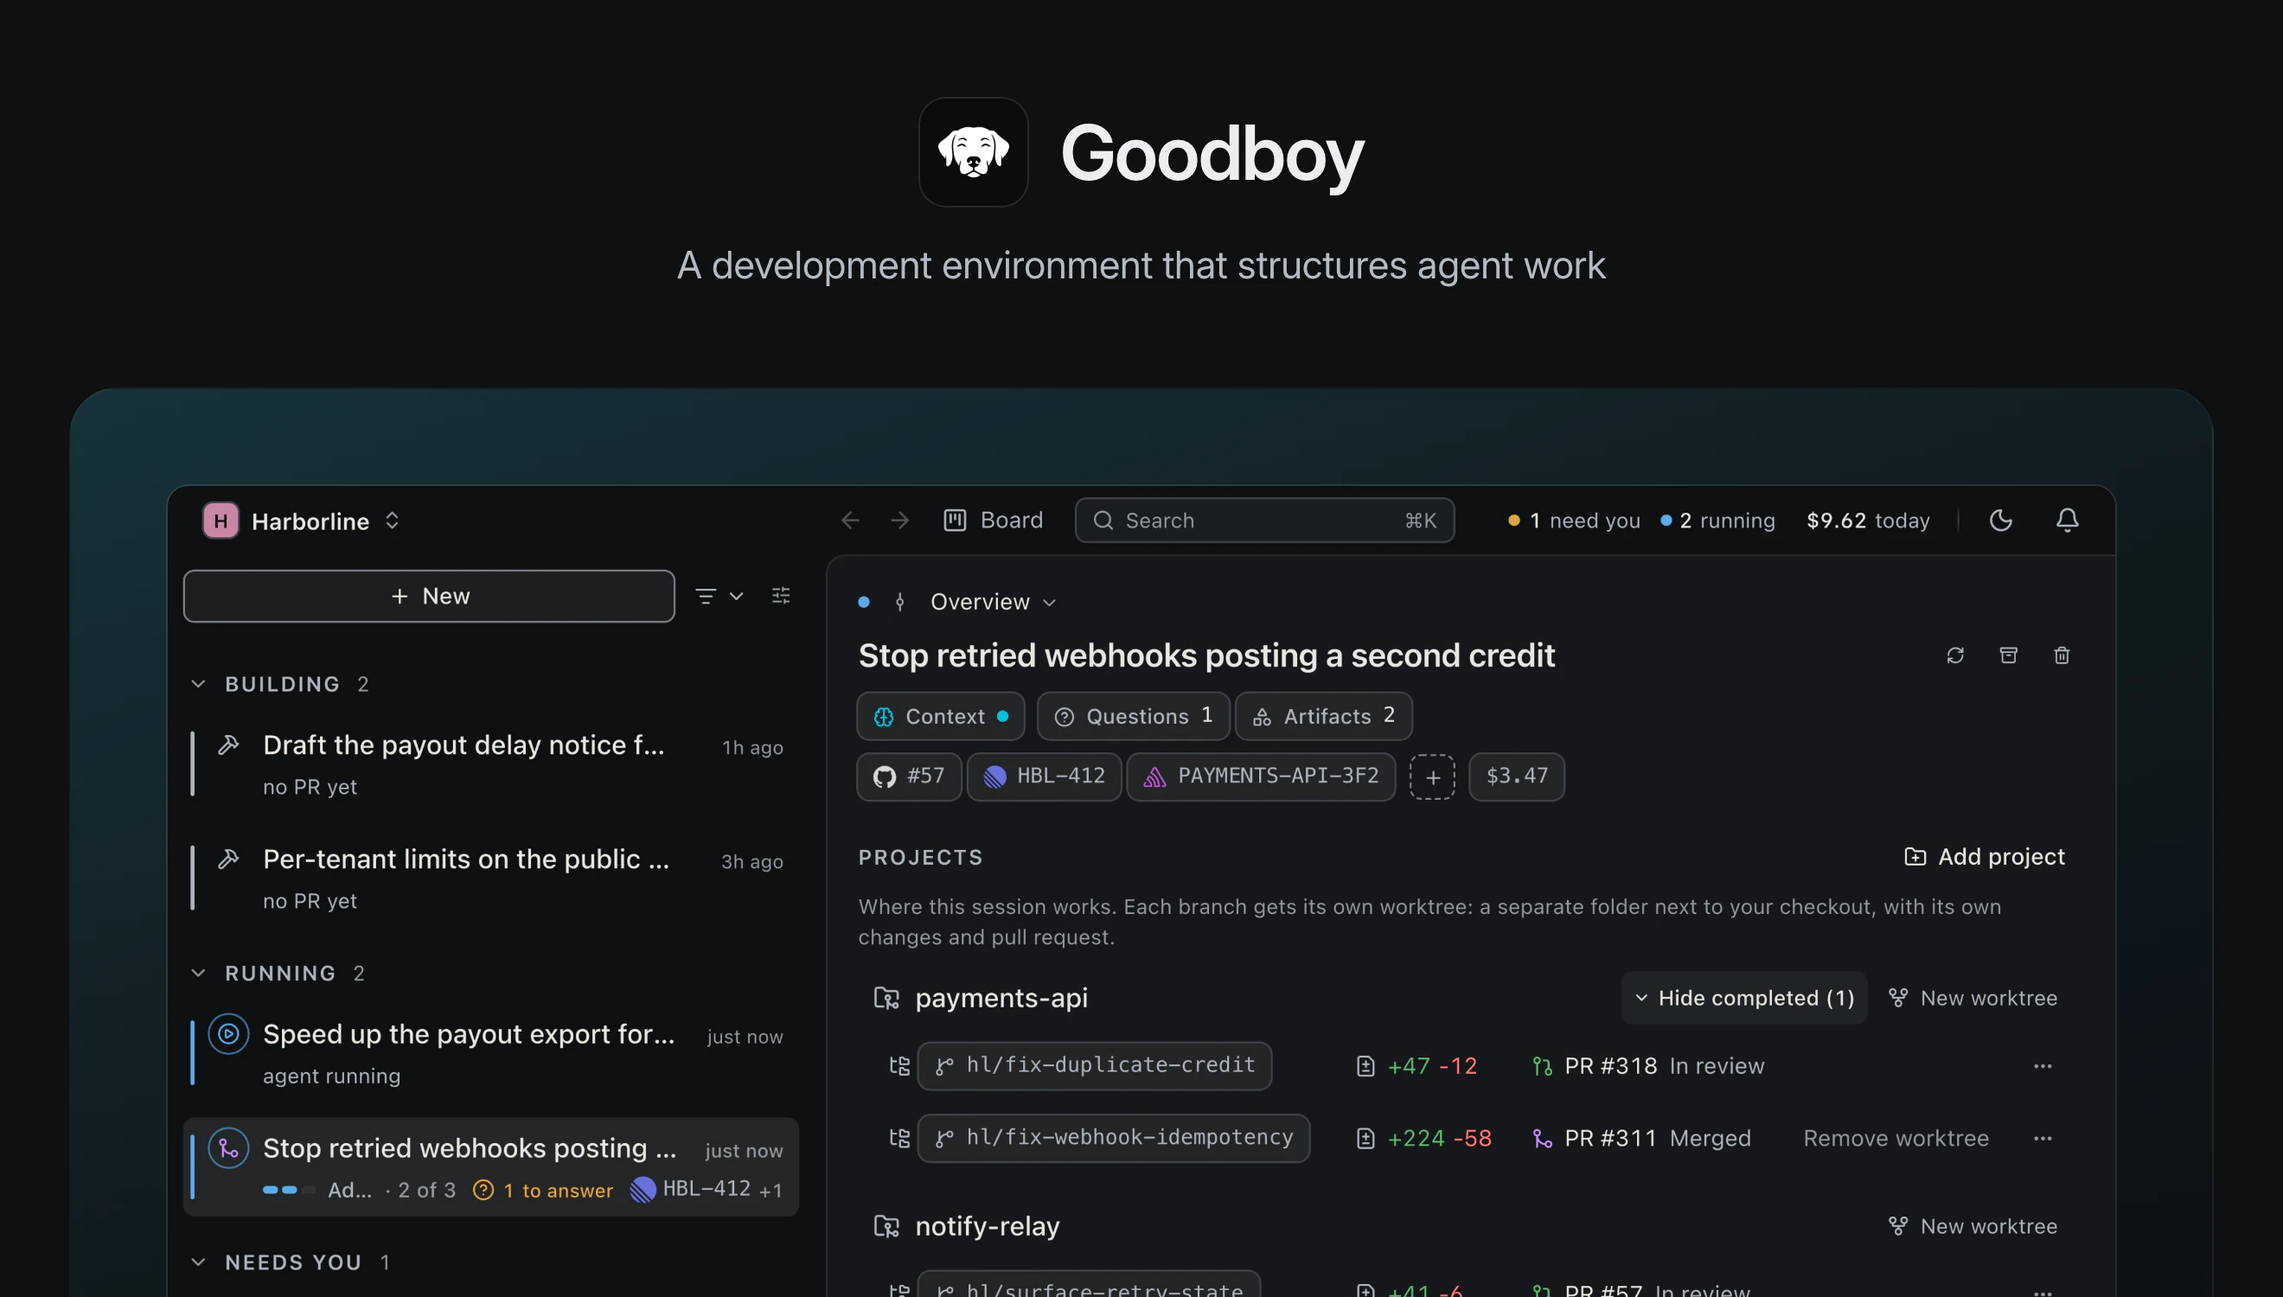
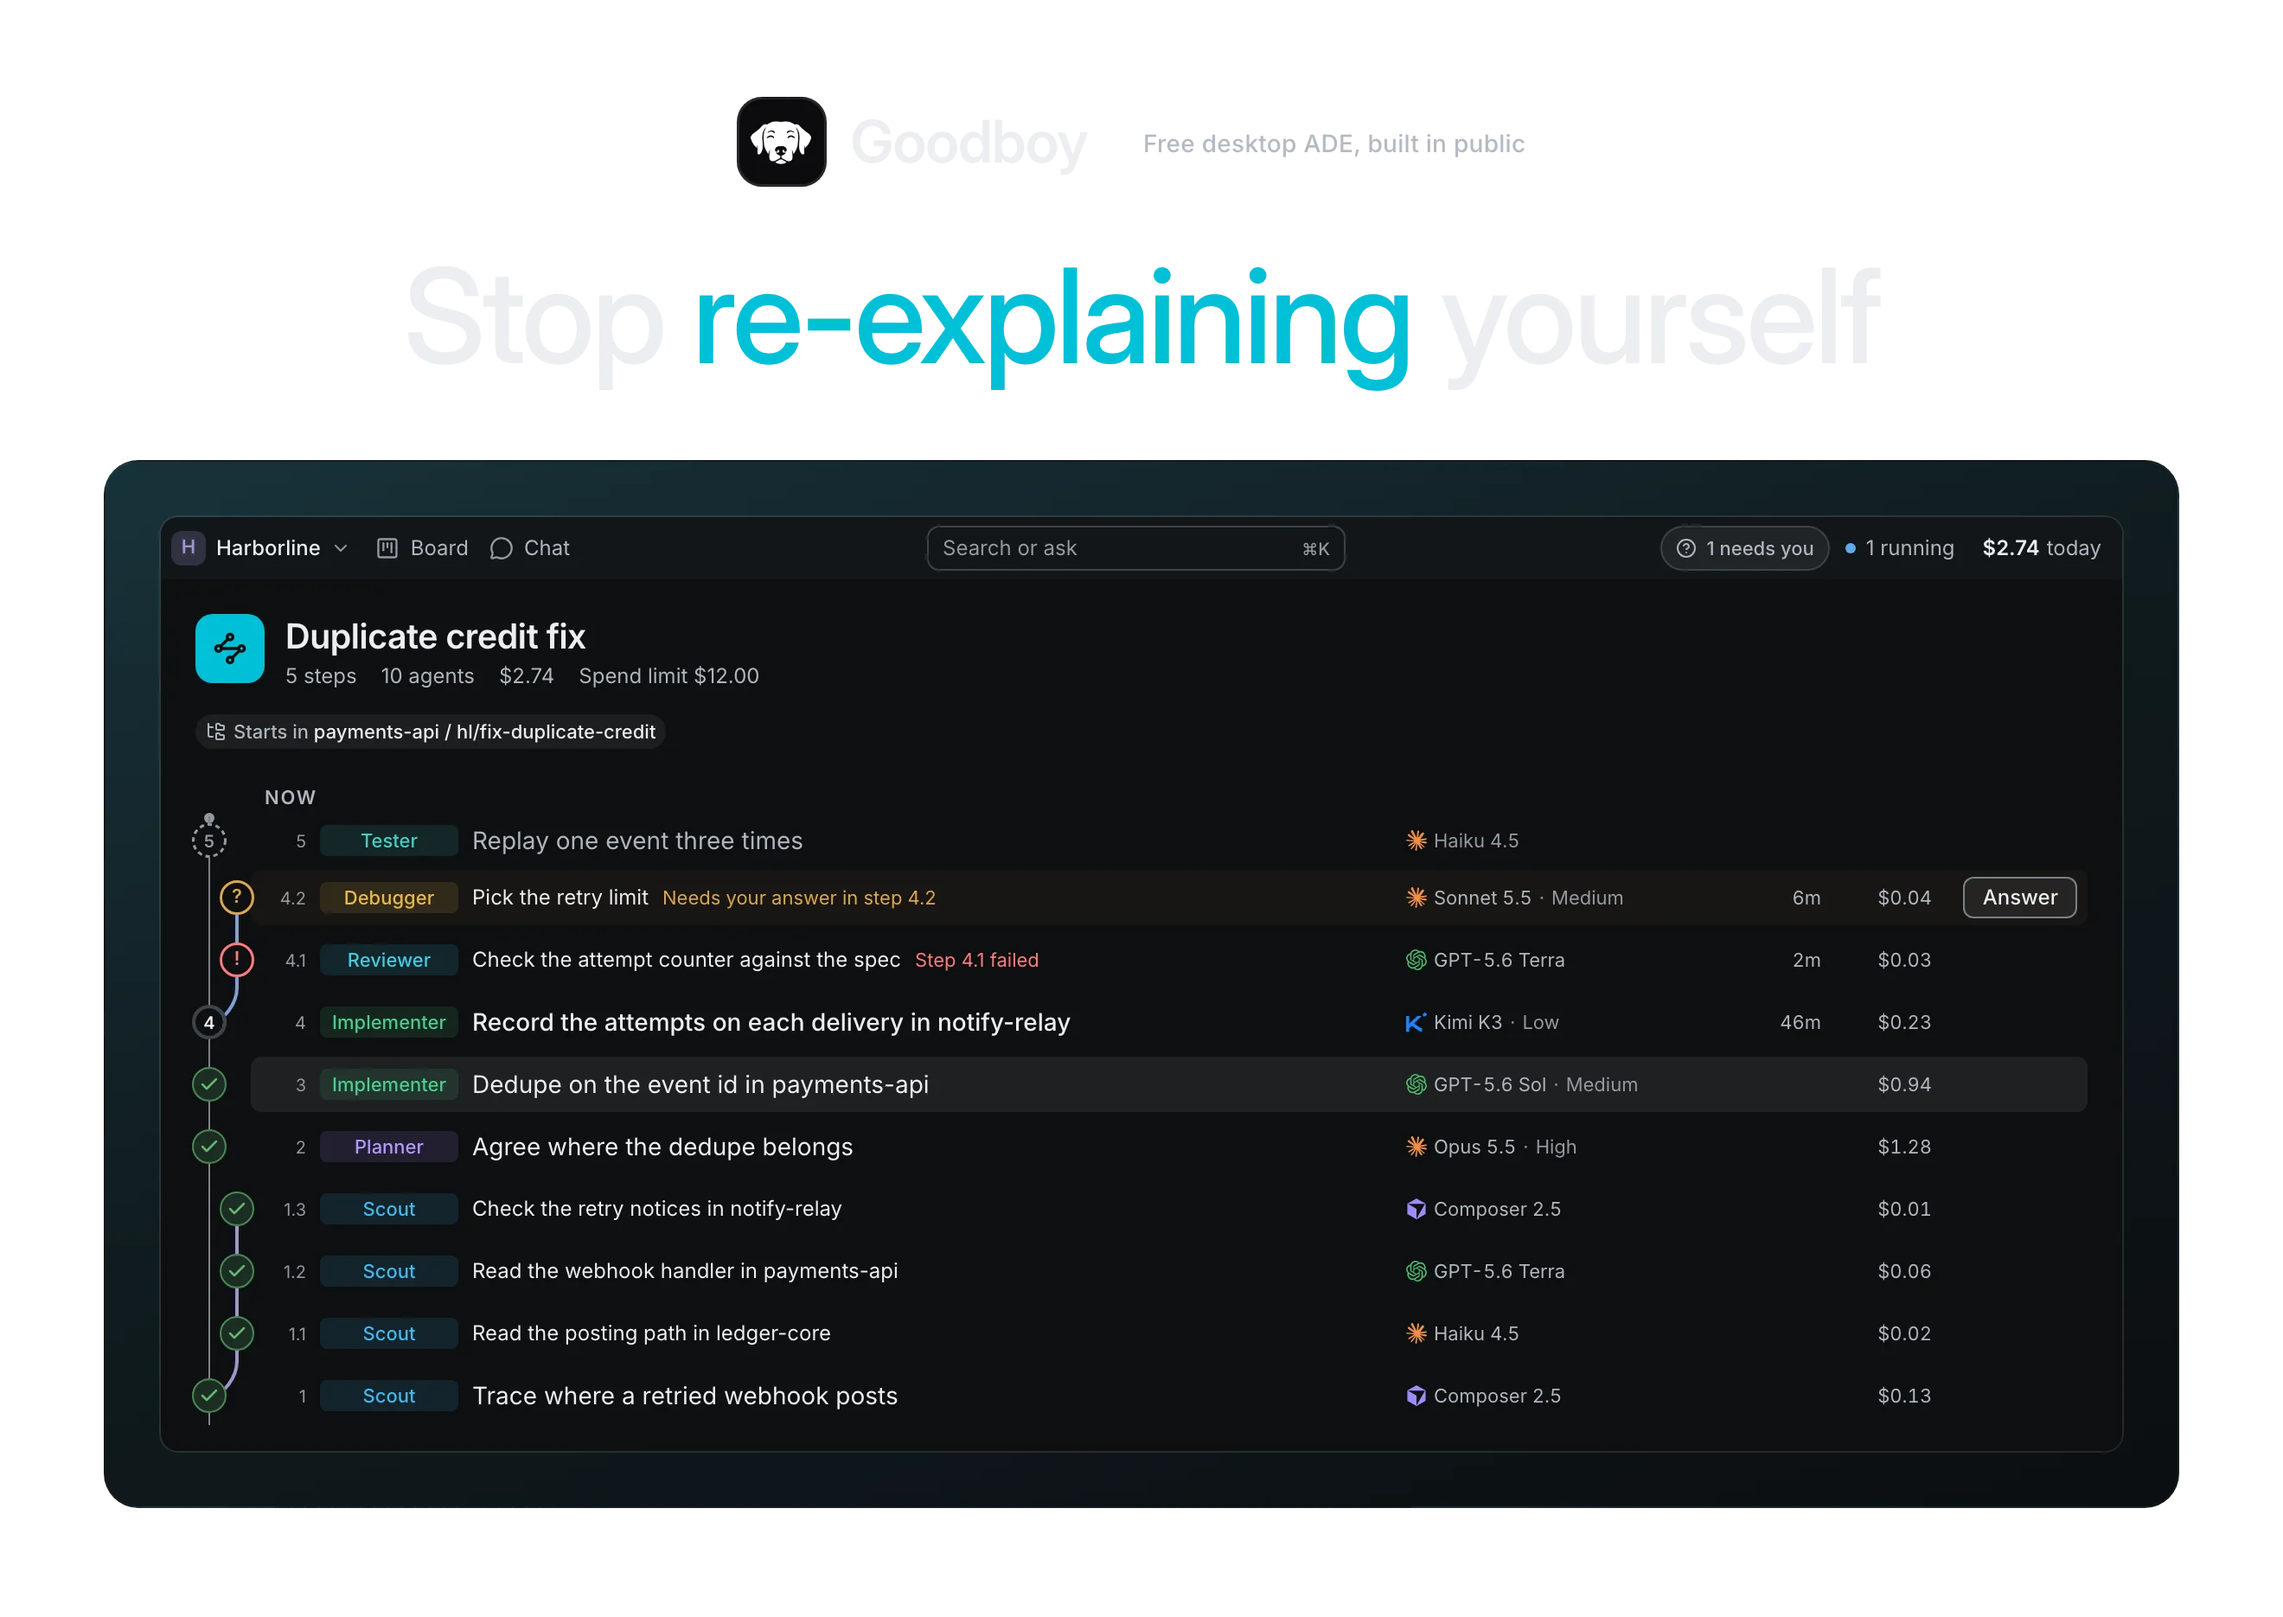
feat(repo): redraw the link card and the readme hero

diff --git a/website/index.html b/website/index.html
@@ -155,36 +155,33 @@
     <meta property="og:type" content="website" />
     <meta property="og:site_name" content="Goodboy" />
     <meta property="og:url" content="https://goodboy-ai.dev/" />
-    <meta
-      property="og:title"
-      content="Goodboy: give your agents a structure to work in"
-    />
+    <meta property="og:title" content="Goodboy: give your agents a structure to work in" />
     <meta
       property="og:description"
       content="Goodboy is a free agentic development environment for macOS and Linux. The providers you connect do the work and Goodboy gives it structure: each task keeps its goal, decisions and summary, so the next agent starts briefed."
     />
-    <meta property="og:image" content="https://goodboy-ai.dev/og-image.png?v=3" />
+    <meta property="og:image" content="https://goodboy-ai.dev/og-image.png?v=4" />
     <meta property="og:image:width" content="1200" />
     <meta property="og:image:height" content="630" />
-    <meta property="og:image:alt" content="Goodboy: stop re-explaining yourself to coding agents" />
+    <meta
+      property="og:image:alt"
+      content="Goodboy, a free desktop ADE built in public: Stop re-explaining yourself, with the coding agents and tools it works with"
+    />
     <meta property="og:locale" content="en_US" />
 
     <!-- Twitter / X card -->
     <meta name="twitter:card" content="summary_large_image" />
     <meta name="twitter:site" content="@GoodboyWorks" />
     <meta name="twitter:creator" content="@GoodboyWorks" />
-    <meta
-      name="twitter:title"
-      content="Goodboy: give your agents a structure to work in"
-    />
+    <meta name="twitter:title" content="Goodboy: give your agents a structure to work in" />
     <meta
       name="twitter:description"
       content="Goodboy is a free agentic development environment for macOS and Linux. The providers you connect do the work and Goodboy gives it structure: each task keeps its goal, decisions and summary, so the next agent starts briefed."
     />
-    <meta name="twitter:image" content="https://goodboy-ai.dev/og-image.png?v=3" />
+    <meta name="twitter:image" content="https://goodboy-ai.dev/og-image.png?v=4" />
     <meta
       name="twitter:image:alt"
-      content="Goodboy: stop re-explaining yourself to coding agents"
+      content="Goodboy, a free desktop ADE built in public: Stop re-explaining yourself, with the coding agents and tools it works with"
     />
 
     <!-- Theme / PWA hints -->
@@ -236,7 +233,6 @@
         ]
       }
     </script>
-
   </head>
   <body>
     <!-- Google Tag Manager (noscript) -->

diff --git a/website/features.html b/website/features.html
@@ -146,28 +146,40 @@
     <meta property="og:type" content="website" />
     <meta property="og:site_name" content="Goodboy" />
     <meta property="og:url" content="https://goodboy-ai.dev/features" />
-    <meta property="og:title" content="Goodboy features" />
+    <meta
+      property="og:title"
+      content="Goodboy, a free desktop ADE built in public: Stop re-explaining yourself, with the coding agents and tools it works with"
+    />
     <meta
       property="og:description"
       content="Every feature in Goodboy, the agentic development environment, grouped the way a task lives, from setup to storage."
     />
-    <meta property="og:image" content="https://goodboy-ai.dev/og-image.png?v=3" />
+    <meta property="og:image" content="https://goodboy-ai.dev/og-image.png?v=4" />
     <meta property="og:image:width" content="1200" />
     <meta property="og:image:height" content="630" />
-    <meta property="og:image:alt" content="Goodboy features" />
+    <meta
+      property="og:image:alt"
+      content="Goodboy, a free desktop ADE built in public: Stop re-explaining yourself, with the coding agents and tools it works with"
+    />
     <meta property="og:locale" content="en_US" />
 
     <!-- Twitter / X card -->
     <meta name="twitter:card" content="summary_large_image" />
     <meta name="twitter:site" content="@GoodboyWorks" />
     <meta name="twitter:creator" content="@GoodboyWorks" />
-    <meta name="twitter:title" content="Goodboy features" />
+    <meta
+      name="twitter:title"
+      content="Goodboy, a free desktop ADE built in public: Stop re-explaining yourself, with the coding agents and tools it works with"
+    />
     <meta
       name="twitter:description"
       content="Every feature in Goodboy, the agentic development environment, grouped the way a task lives, from setup to storage."
     />
-    <meta name="twitter:image" content="https://goodboy-ai.dev/og-image.png?v=3" />
-    <meta name="twitter:image:alt" content="Goodboy features" />
+    <meta name="twitter:image" content="https://goodboy-ai.dev/og-image.png?v=4" />
+    <meta
+      name="twitter:image:alt"
+      content="Goodboy, a free desktop ADE built in public: Stop re-explaining yourself, with the coding agents and tools it works with"
+    />
 
     <!-- Theme / PWA hints -->
     <meta name="theme-color" content="#ffffff" media="(prefers-color-scheme: light)" />

diff --git a/docs/brand.md b/docs/brand.md
@@ -145,8 +145,11 @@ suggests. Every one of these is generated, never cropped by hand.
 | LinkedIn profile background | 1584x396                 | The left third, under the profile photo                                             |
 | og-image                    | 1200x630                 | The bottom 100 px, where X lays the page title over the card                        |
 
-The og-image is the one card drawn on the website's dark theme tokens, so a link
-preview reads as dark on X, LinkedIn and Slack. Its URL in the page heads carries
+The og-image is the one card drawn on the website's dark theme tokens, on the
+stage gradient of the site's Stop re-explaining yourself band, so a link preview
+reads as dark on X, LinkedIn and Slack. It carries the logo, the free desktop
+ADE pill, the headline, the providers in their colours and the tools in white,
+and no domain or date. Its URL in the page heads carries
 a `?v=` suffix. Bump it whenever the PNG changes, because scrapers cache by URL:
 X kept showing the old light card under an unchanged suffix.
 

diff --git a/README.md b/README.md
@@ -2,7 +2,7 @@
 
 <picture>
   <source media="(prefers-color-scheme: dark)" srcset="./docs/readme/readme-hero-dark.webp">
-  <img src="./docs/readme/readme-hero-light.webp" alt="Goodboy, a desktop app that gives your agents a structure to work in: the overview of a Harborline session with its tasks by stage, its projects and its pull requests" width="880">
+  <img src="./docs/readme/readme-hero-light.webp" alt="Goodboy, a free desktop ADE built in public. Stop re-explaining yourself: the Duplicate credit fix task in Harborline, its steps run by scouts, a planner, implementers, a reviewer, a debugger waiting on your answer and a tester, each on its own model" width="880">
 </picture>
 
 [![ci](https://img.shields.io/github/actions/workflow/status/akhayam99/goodboy/ci.yml?branch=main&style=for-the-badge&logo=githubactions&logoColor=white&label=ci&labelColor=15181b)](https://github.com/akhayam99/goodboy/actions/workflows/ci.yml)

diff --git a/docs/mock-screenshots.md b/docs/mock-screenshots.md
@@ -219,7 +219,10 @@ browser tab raises. The README images live in `docs/readme/`, the
 feature-area guide ones in the public
 [goodboy-media](https://github.com/akhayam99/goodboy-media) repo, both as dark
 and light `.webp` pairs. The website takes no screenshots: its product views are
-React mocks. To crop a short surface, use a `--window-size` height shorter than 900. The layout keeps its own proportions and the footer stays pinned.
+React mocks. The README hero is the exception that goes the other way:
+`pnpm readme:hero` draws the logo, the headline and the website's hero
+`SessionMock` from the website dev server on port 1499 and writes
+`docs/readme/readme-hero-{dark,light}.webp` at three times the README width. To crop a short surface, use a `--window-size` height shorter than 900. The layout keeps its own proportions and the footer stays pinned.
 
 ## Pictures for feature-area guides
 
